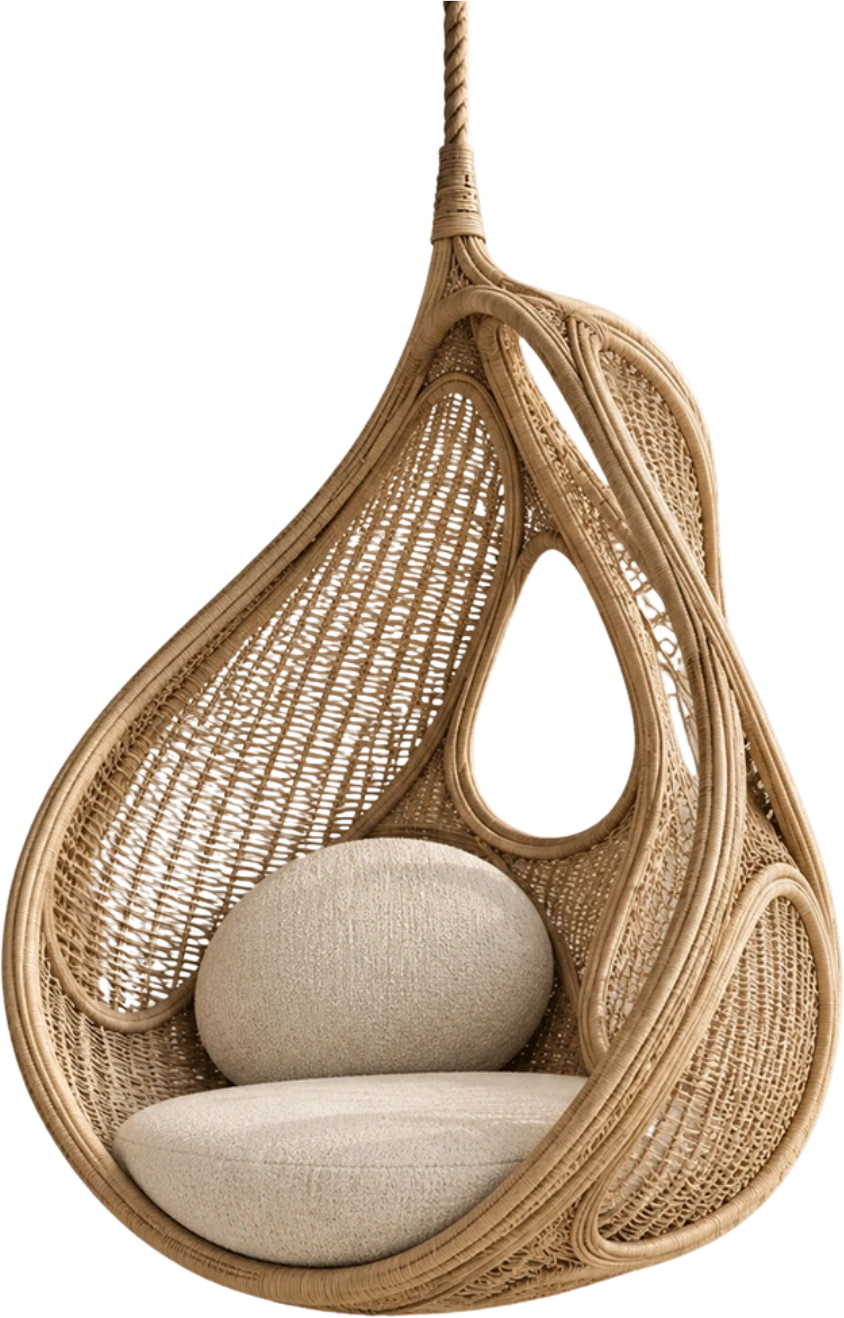
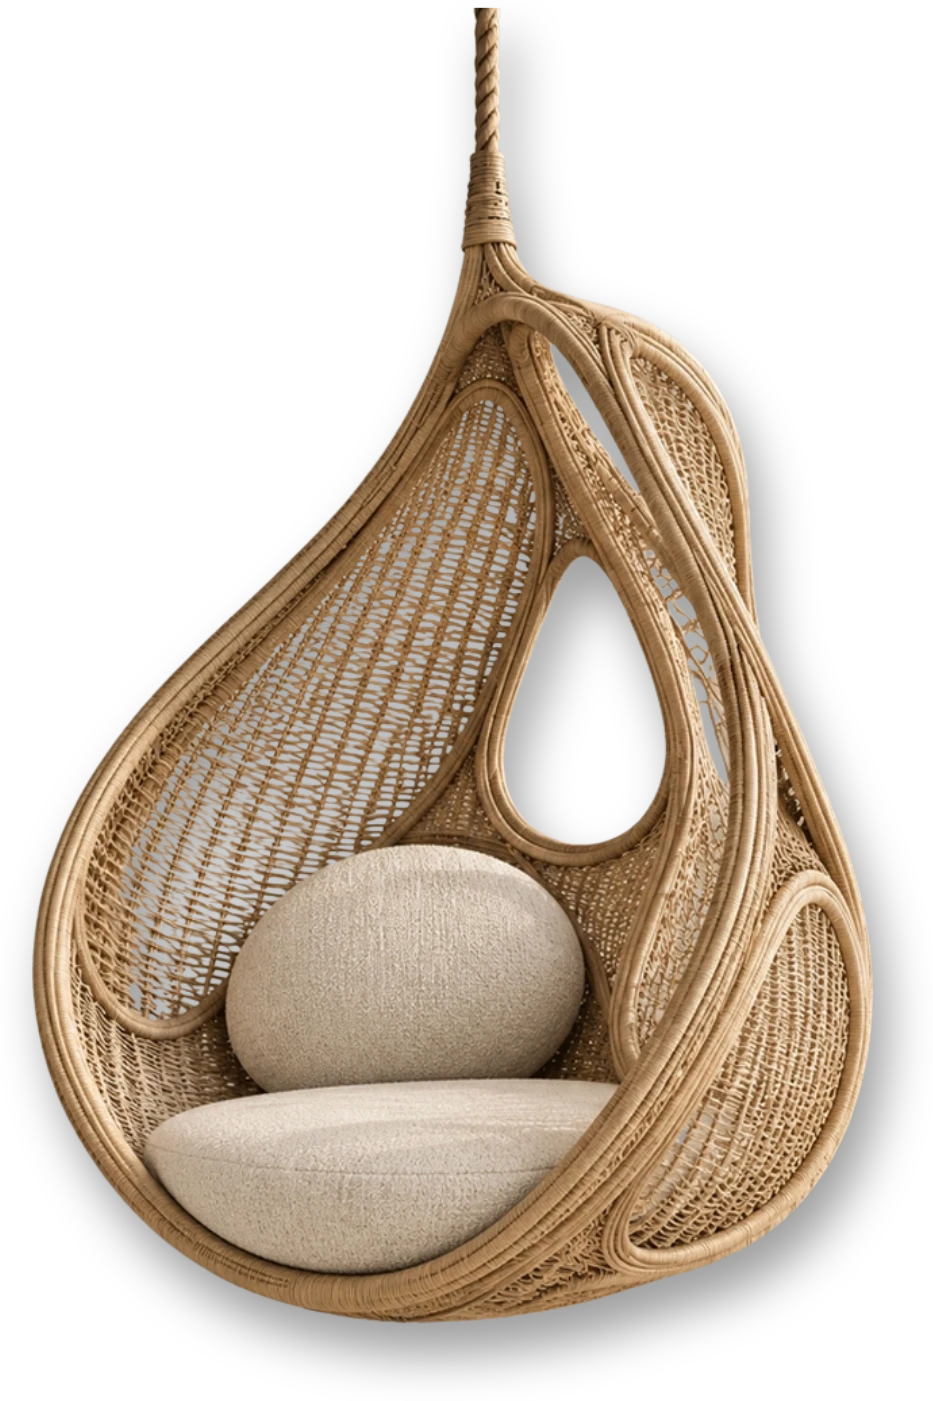
fix: replace invitation images and remove additional shadow effects (#829)

diff --git a/src/app/events/infinity-4/invite/page.tsx b/src/app/events/infinity-4/invite/page.tsx
@@ -31,11 +31,11 @@ export default function InfinityInvitePage() {
           <p className="z-10 px-4 pt-10 text-center text-[13px] leading-relaxed sm:px-8 sm:pt-20 sm:text-xl lg:px-14 lg:pt-28 lg:text-2xl">
             After a successful showcase at Infinity 3.0, we’re back with something even better. Inspired by <strong className="font-bold">Antoni Gaudí</strong>, we set out to make pieces we had never made before.
           </p>
-          <Image src={hangingChair} alt="Handwoven teardrop-shaped cane hanging chair with a sculptural frame and cream cushions" sizes="(max-width: 639px) calc(46vw - 18px), 39vw" className="drop-shadow-[0_12px_10px_rgba(65,46,30,0.18)] h-auto w-full" />
+          <Image src={hangingChair} alt="Handwoven teardrop-shaped cane hanging chair with a sculptural frame and cream cushions" sizes="(max-width: 639px) calc(46vw - 18px), 39vw" className="h-auto w-full" />
         </section>
 
         <section aria-label="Made with patience and love" className="mt-8 grid grid-cols-[49%_51%] items-center sm:mt-12">
-          <Image src={table} alt="Handcrafted cane table with a checkerboard wooden top and flowing woven base" sizes="(max-width: 639px) calc(49vw - 20px), 42vw" className="drop-shadow-[0_12px_10px_rgba(65,46,30,0.18)] h-auto w-full" />
+          <Image src={table} alt="Handcrafted cane table with a checkerboard wooden top and flowing woven base" sizes="(max-width: 639px) calc(49vw - 20px), 42vw" className="h-auto w-full" />
           <p className="px-3 text-center text-[13px] leading-relaxed sm:px-7 sm:text-xl lg:px-12 lg:text-2xl">
             Every bend took patience.<br />Every piece was made with love.<br />Our artisans can’t wait for you to see what they’ve made. Neither can we.
           </p>
@@ -45,7 +45,7 @@ export default function InfinityInvitePage() {
           <p className="relative z-10 ml-[6%] w-[70%] text-center text-[13px] leading-relaxed sm:text-xl lg:absolute lg:left-[6%] lg:top-[7%] lg:ml-0 lg:w-[51%] lg:text-2xl">
             We’d like you to be among the first people to experience the uniqueness.
           </p>
-          <Image src={lounge} alt="Curved green woven cane lounge chair and matching ottoman with soft neutral upholstery" sizes="(max-width: 639px) calc(84vw - 34px), 72vw" className="drop-shadow-[0_12px_10px_rgba(65,46,30,0.18)] mx-auto mt-6 h-auto w-[84%] sm:mt-8 lg:mt-0" />
+          <Image src={lounge} alt="Curved green woven cane lounge chair and matching ottoman with soft neutral upholstery" sizes="(max-width: 639px) calc(84vw - 34px), 72vw" className="mx-auto mt-6 h-auto w-[84%] sm:mt-8 lg:mt-0" />
         </section>
 
         <section aria-labelledby="event-details" className="mx-auto mt-16 max-w-3xl px-6 text-center sm:mt-24 lg:mt-32">
